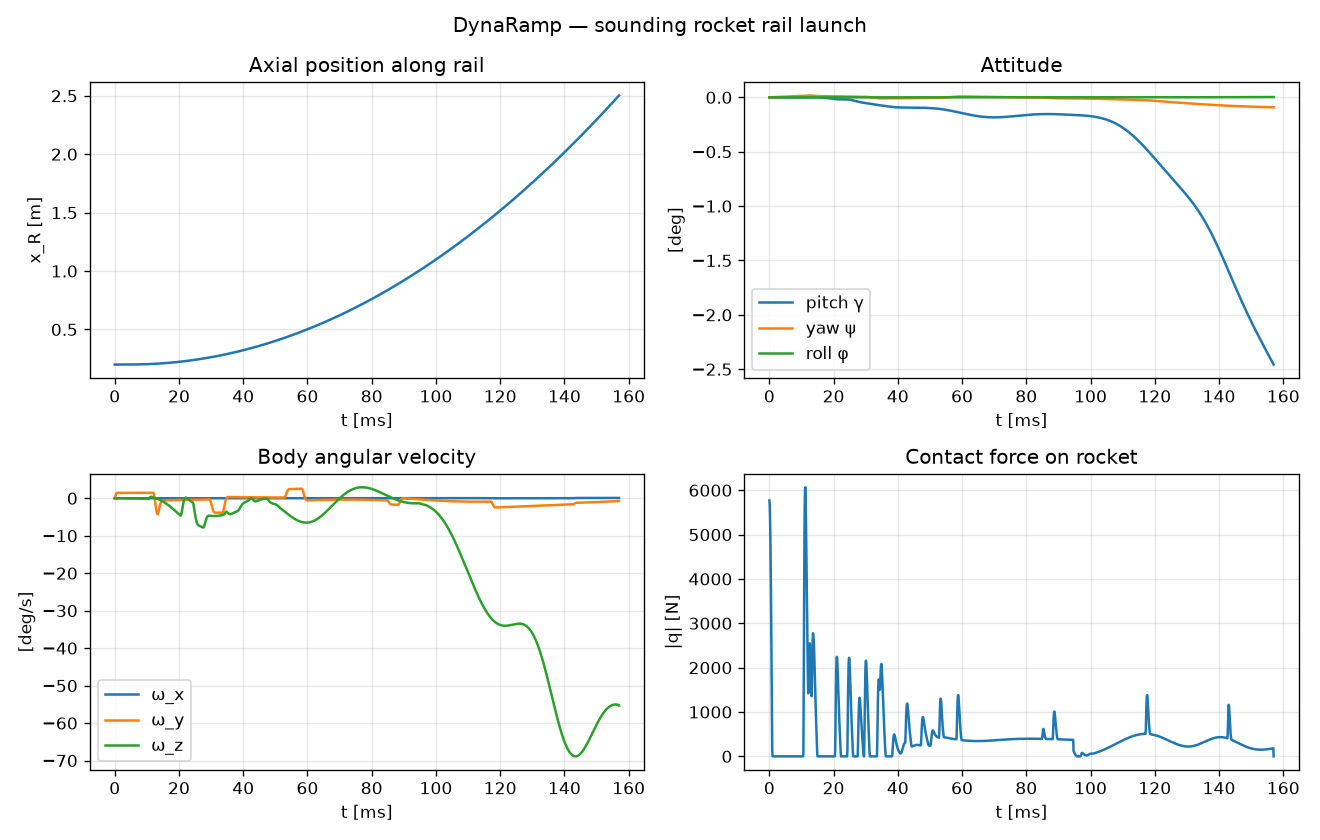
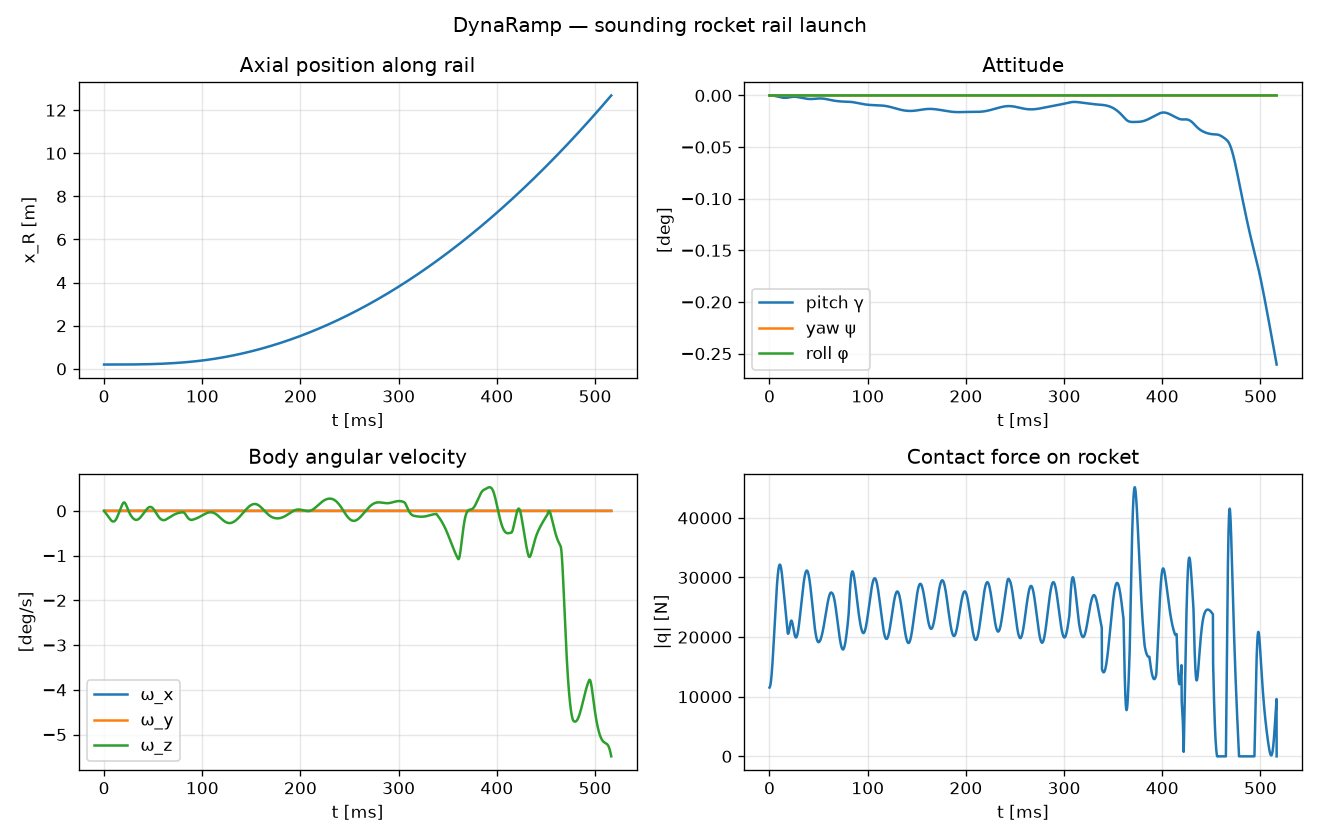
Refined rail-launch demo

diff --git a/examples/launch_demo.py b/examples/launch_demo.py
@@ -23,13 +23,16 @@ from dynaramp.projectile import GuideModalField, Projectile, Slider
 from dynaramp.contact import RailProfile, ContactSolver, linear_contact_stiffness
 from dynaramp.simulation import LaunchSimulator, Gravity, Thrust, G0
 
+import logging
+
+logging.basicConfig(level=logging.DEBUG)
 
 def build_rail() -> dyn.System:
     """A slender steel launch rail, modeled as an Euler-Bernoulli beam clamped at its base
     (x = 0) and free at the muzzle end (x = L)."""
     topo = dyn.TopologyHandler()
-    length = 2.5                      # rail length [m]
-    width, height = 0.04, 0.06        # cross-section [m]
+    length = 518 * 25.4e-3 # rail length [m]
+    width, height = 0.5, 1.0  # cross-section [m]
     beam = dyn.EulerBernoulliBeam(
         e_id="rail",
         length=length,
@@ -53,19 +56,30 @@ def build_rail() -> dyn.System:
 def main() -> None:
     # --- section 2: rail modal model ---
     system = build_rail()
-    modes = system.natural_modes(3, omega_max=1500, search_res=3000)
+    modes = system.natural_modes(7, omega_max=1500)
     field = GuideModalField.from_elements(system, ["rail"], modes)
     print(f"Rail modes retained: {len(modes)} "
           f"(frequencies: {', '.join(f'{m.frequency:.1f}' for m in modes)} rad/s)")
 
-    # --- the projectile: a ~60 kg sounding rocket, rear + front slider pairs ---
+    # --- the projectile: a ~Pathfinder sounding rocket, rear + front slider pairs ---
+    mass = 2468.1
+    r = 22 * 25.4e-3
+    h_rocket = 439 * 25.4e-3
+    inertia_xx = 1 / 2 * mass * r ** 2
+    inertia_yy = inertia_zz = 1 / 12 * mass * (3 * r ** 2 + h_rocket ** 2)
+    lug1 = (679.40 - 660.44) * 25.4e-3
+    lug2 = (679.40 - 533.94) * 25.4e-3
+    lug3 = (679.40 - 478.42) * 25.4e-3
+    lug4 = (679.40 - 358.16) * 25.4e-3
     rocket = Projectile(
-        mass=60.0,
-        inertia_com=np.diag([0.5, 22.0, 22.0]),   # roll light, pitch/yaw heavy
-        com_o1=(1.0, 0.0, 0.0),                    # COM 1 m ahead of the rear slider (O1)
+        mass=mass,
+        inertia_com=np.diag([inertia_xx, inertia_yy, inertia_zz]),   # roll light, pitch/yaw heavy
+        com_o1=(h_rocket/2, 0.0, 0.0),                    # COM roughly halfway up wrt the rear slider (O1)
         sliders=[
-            Slider((0.0, 0.0, 0.0), radius=0.0),   # rear shoe (at O1)
-            Slider((1.5, 0.0, 0.0), radius=0.0),   # front shoe, 1.5 m ahead
+            Slider((lug1, 0.0, 0.0), radius=0.0),  # rear-most shoe (at O1)
+            Slider((lug2, 0.0, 0.0), radius=0.0),
+            Slider((lug3, 0.0, 0.0), radius=0.0),
+            Slider((lug4, 0.0, 0.0), radius=0.0)  # front-most shoe
         ],
     )
 
@@ -80,18 +94,18 @@ def main() -> None:
     )
     # single rail exit at 2.5 m: the front shoe (station x_R+1.5) leaves first, then the rear
     # -- the sequential detachment that produces the launch disturbance.
-    solver = ContactSolver(field, profile, rocket.sliders, l_c=2.5)
+    solver = ContactSolver(field, profile, rocket.sliders, l_c=518 * 25.4e-3)
 
     # --- section 5: loads, simulator, run ---
     forces = [
         Gravity(g=(0.0, -G0, 0.0)),                       # rocket hangs; gravity seats the shoes on the groove
-        Thrust(curve=lambda t: 12000.0 * min(1.0, t / 0.01)),  # 12 kN motor, 10 ms ramp
+        Thrust(curve=lambda t: 285e3 * min(1.0, t / 0.1)),  # 250 kN motor, 100 ms ramp
     ]
     sim = LaunchSimulator(field, rocket, solver, forces=forces, rayleigh=(2.0, 1e-5))
 
     # start seated in the groove at the base, at rest.
-    x0 = np.array([0.2, 0.0, -5.5e-4, 0.0, 0.0, 0.0])     # [x_R, y_L, z_L, gamma, psi, phi]
-    result = sim.run(x0, np.zeros(6), dt=1e-4, t_max=0.25)
+    x0 = np.array([0.2, -5.5e-4, 0.0, 0.0, 0.0, 0.0])     # [x_R, y_L, z_L, gamma, psi, phi]
+    result = sim.run(x0, np.zeros(6), dt=1e-4, t_max=0.7)
 
     # --- report the initial disturbance ---
     print(f"\nSteps: {len(result.t)}   exited rail: {result.exited}")

diff --git a/src/dynaramp/mstmm/system.py b/src/dynaramp/mstmm/system.py
@@ -302,7 +302,7 @@ class System:
         last_elem_id = next(self.topology.tree.predecessors(self.topology.root.b_id))
 
         # Use np.allclose with an absolute tolerance to handle mixed-unit zero crossings
-        if np.allclose(state_vecs[last_elem_id], root_sv, rtol=rtol, atol=1e-5):
+        if np.allclose(state_vecs[last_elem_id], root_sv, rtol=rtol, atol=1e-4):
             logger.debug("Propagated state matches root boundary state.")
         else:
             # If it fails, manually calculate the max absolute difference for logging
@@ -378,8 +378,7 @@ class System:
             res = minimize_scalar(
                 self._sigma_min,
                 bounds=(omega[idx - 1], omega[idx + 1]),
-                method="bounded",
-                tol=mtol
+                method="bounded"
             )
             refined_omega: float = res.x
             # It shouldn't happen if the sweep is fine enough, but we should avoid duplicating modes

diff --git a/src/dynaramp/projectile/projectile.py b/src/dynaramp/projectile/projectile.py
@@ -6,7 +6,7 @@ from typing import List
 
 import numpy as np
 
-from ..common.types import VectorLike, Matrix
+from ..common.types import Vector, VectorLike, Matrix
 
 logger = logging.getLogger(__name__)
 
@@ -29,7 +29,7 @@ class Slider:
     radius: float
 
     def __post_init__(self) -> None:
-        self.position = np.array(self.position, dtype=np.float64).reshape(3)
+        self.position: Vector = np.array(self.position, dtype=np.float64).reshape(3)
         self.radius = float(self.radius)
 
 
